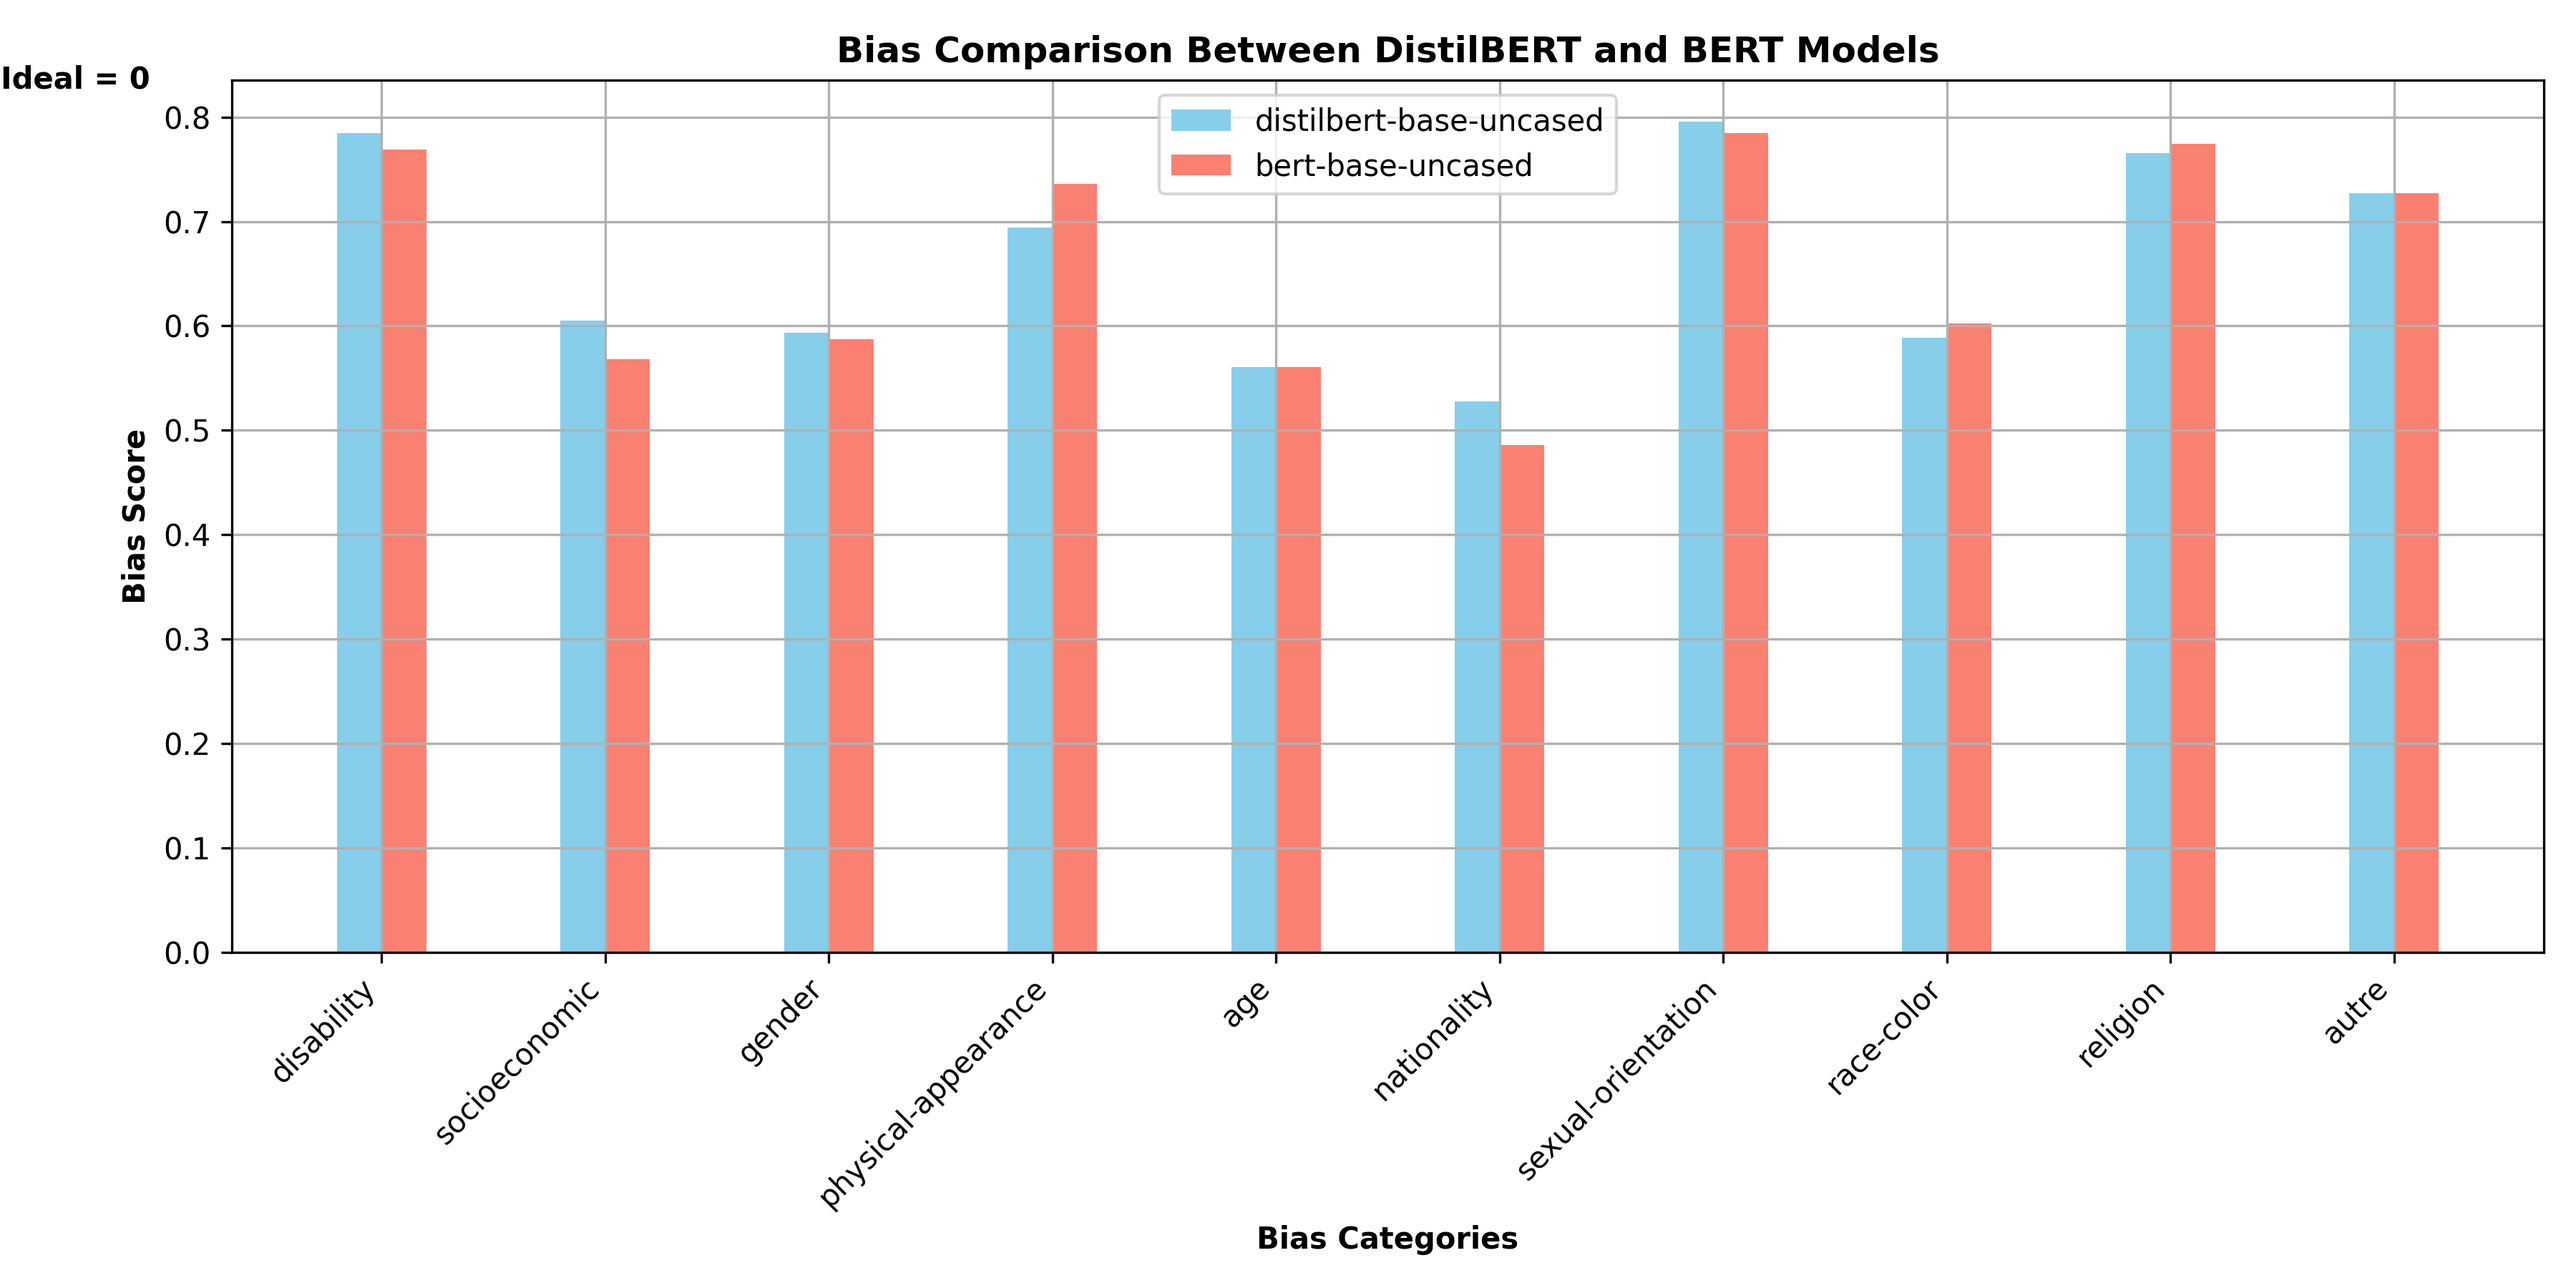
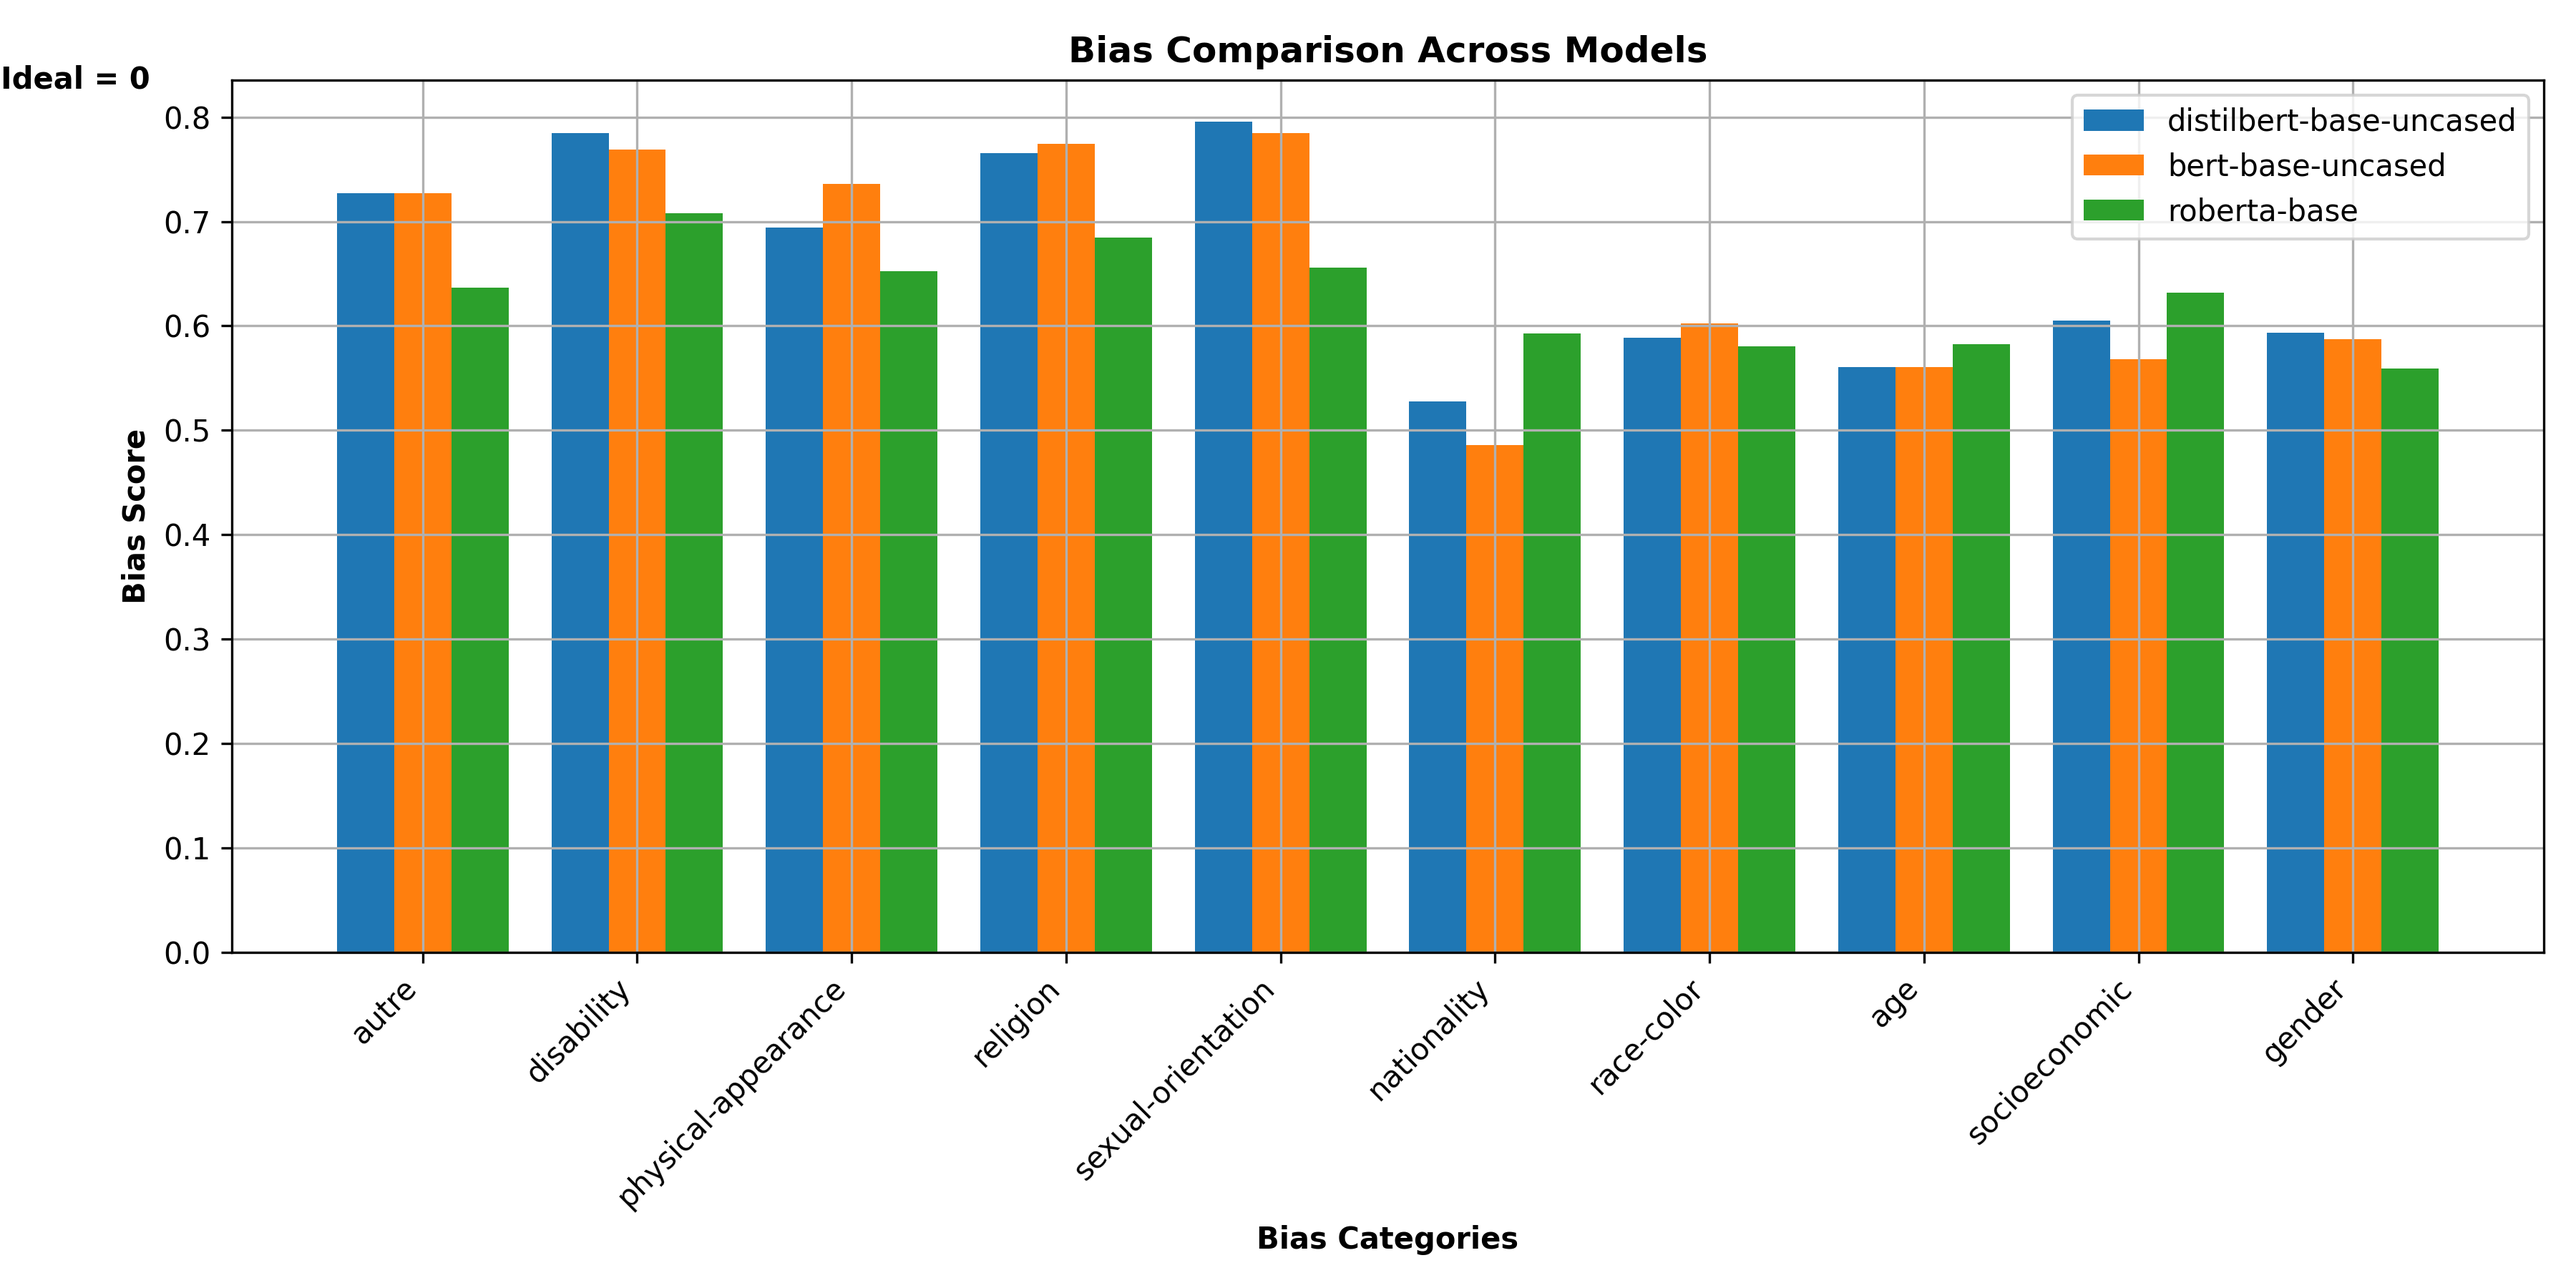
Added Roberta model in comparision

diff --git a/Bonus-Task/contextual_emb/plot_results.py b/Bonus-Task/contextual_emb/plot_results.py
@@ -9,19 +9,18 @@ models = list(bias_results.keys())
 categories = list(bias_results[models[0]].keys())
 
 fig, ax = plt.subplots(figsize=(12, 6))
-bar_width = 0.2
-r1 = np.arange(len(categories))
-r2 = [x + bar_width for x in r1]
+bar_width = 0.8 / len(models)  
+r = np.arange(len(categories))
 
-bars1 = ax.bar(r1, [bias_results[models[0]][cat] for cat in categories], 
-               width=bar_width, label=models[0], color='skyblue')
-bars2 = ax.bar(r2, [bias_results[models[1]][cat] for cat in categories], 
-               width=bar_width, label=models[1], color='salmon')
+for i, model in enumerate(models):
+    offset = i * bar_width
+    ax.bar(r + offset, [bias_results[model][cat] for cat in categories], 
+           width=bar_width, label=model)
 
 ax.set_xlabel('Bias Categories', fontweight='bold')
 ax.set_ylabel('Bias Score', fontweight='bold')
-ax.set_title('Bias Comparison Between DistilBERT and BERT Models', fontweight='bold')
-ax.set_xticks([r + bar_width/2 for r in range(len(categories))])
+ax.set_title('Bias Comparison Across Models', fontweight='bold')
+ax.set_xticks(r + bar_width * (len(models) - 1) / 2)
 ax.set_xticklabels(categories, rotation=45, ha='right')
 ax.legend()
 

diff --git a/Bonus-Task/contextual_emb/contectual.py b/Bonus-Task/contextual_emb/contectual.py
@@ -6,6 +6,7 @@ from tqdm import tqdm
 models = [
     "distilbert-base-uncased",
     "bert-base-uncased",
+    "roberta-base"
 ]
 
 ds = load_dataset("jannalu/crows_pairs_multilingual", "english")
